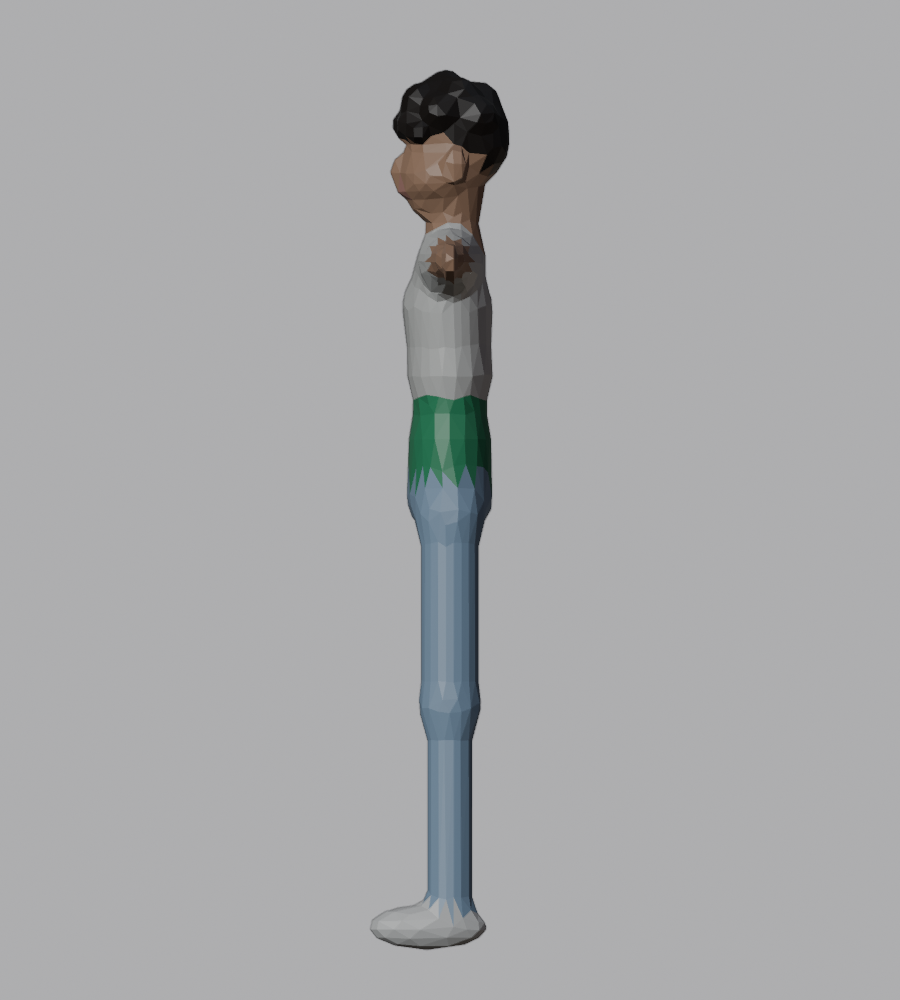
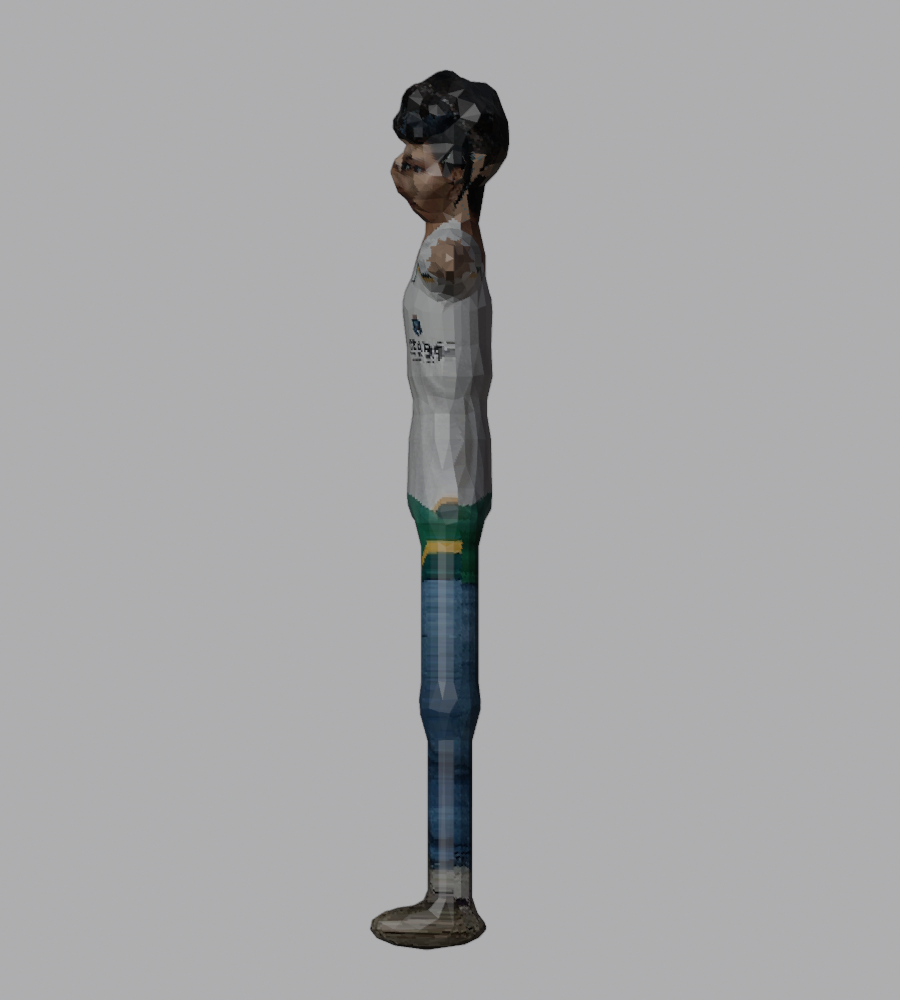
Textura 512 do boneco do Miguel projetada das fotos de referencia
UV automatico; cada texel e projetado na foto do lado para onde a face
aponta (frente, perfis, costas da cabeca, corpo inteiro), cor em 15 bits,
amostragem Closest. --sem-textura gera a versao so com cores.

Claude-Session: https://claude.ai/code/session_015xcccLS1wLAHGWNWcjbuqz

Changed region(s): [[0.4044, 0.31, 0.56, 0.961], [0.4356, 0.124, 0.56, 0.248], [0.4667, 0.279, 0.4978, 0.31]]

diff --git a/arte/gaviao_boneco_lowpoly.py b/arte/gaviao_boneco_lowpoly.py
@@ -204,8 +204,153 @@ def construir():
         c = pol.center
         pol.material_index = ordem.index(cor_do_ponto((c.x / k, c.y / k, c.z / k + min(zs))))
         pol.use_smooth = False
+    ob["k"], ob["z_min"] = k, min(zs)
     return ob
 
+
+
+# ---------------------------------------------------------------- textura
+# Textura 512x512 feita so com as fotos de referencia: cada texel da malha e
+# projetado (ortografico) na foto do lado para onde a face aponta.
+# Projecoes: foto -> (px0, sx, py0, sy, z0, eixo). px = px0 + sx * eixo,
+# py = py0 - sy * (z - z0); fotos normalizadas para 1500x2000.
+FOTOS = os.path.join(os.path.dirname(os.path.abspath(__file__)), "referencias", "miguel")
+TEX = 512
+PROJ = {
+    # eixo: funcao (x, y) -> coordenada horizontal em metros
+    "rosto_frente": (840, 4263, 1000, 5055, 1.531, lambda x, y: x),
+    "perfil_direito": (1010, 6200, 1000, 4835, 1.531, lambda x, y: -y - 0.117),
+    "perfil_esquerdo": (300, 6200, 1010, 4835, 1.531, lambda x, y: y + 0.117),
+    "cabeca_costas": (640, 5570, 1230, 4240, 1.470, lambda x, y: -x),
+    "corpo_frente": (750, 957, 1840, 957, 0.0, lambda x, y: x),
+}
+
+
+def _carregar(nome):
+    import numpy as np
+    img = bpy.data.images.load(os.path.join(FOTOS, nome + ".jpg"))
+    w, h = img.size
+    px = np.empty(w * h * 4, dtype=np.float32)
+    img.pixels.foreach_get(px)
+    bpy.data.images.remove(img)
+    return px.reshape(h, w, 4)[::-1, :, :3]  # linha 0 = topo
+
+
+def _amostra(fotos, nome, x, y, z):
+    px0, sx, py0, sy, z0, eixo = PROJ[nome]
+    im = fotos[nome]
+    h, w = im.shape[:2]
+    u = int(px0 + sx * eixo(x, y))
+    v = int(py0 - sy * (z - z0))
+    if 0 <= u < w and 0 <= v < h:
+        return im[v, u]
+    return None
+
+
+def texturizar(ob, k, z_min):
+    import numpy as np
+    me = ob.data
+    bpy.context.view_layer.objects.active = ob
+    bpy.ops.object.mode_set(mode="EDIT")
+    bpy.ops.mesh.select_all(action="SELECT")
+    bpy.ops.uv.smart_project(angle_limit=math.radians(66), island_margin=0.004)
+    bpy.ops.object.mode_set(mode="OBJECT")
+
+    fotos = {n: _carregar(n) for n in PROJ}
+    # pele dos bracos: media da bochecha na foto de frente
+    pele = fotos["rosto_frente"][1050:1150, 560:680].reshape(-1, 3).mean(0)
+    # amostra de cachos (foto de costas) para o topo e onde a foto mostra fundo
+    cachos = fotos["cabeca_costas"][250:950, 250:950]
+    tex = np.zeros((TEX, TEX, 3), dtype=np.float32)
+    feito = np.zeros((TEX, TEX), dtype=bool)
+    uv = me.uv_layers.active.data
+
+    for pol in me.polygons:
+        n = pol.normal
+        cen = pol.center
+        cor = cor_do_ponto((cen.x / k, cen.y / k, cen.z / k + z_min))
+        cabeca = cen.z > 1.46 and cor in ("pele", "cabelo", "labio")
+        if cabeca:
+            pesos = {"rosto_frente": -n.y, "cabeca_costas": n.y,
+                     "perfil_direito": -n.x, "perfil_esquerdo": n.x}
+            fonte = max(pesos, key=pesos.get)
+        elif abs(cen.x) < 0.22:
+            fonte = "corpo_frente"
+        else:
+            fonte = None
+        base = np.array(CORES[cor]) ** (1 / 2.2)
+        li = list(pol.loop_indices)
+        P = [me.vertices[me.loops[i].vertex_index].co for i in li]
+        T = [uv[i].uv for i in li]
+        for t in range(1, len(li) - 1):
+            tri = (0, t, t + 1)
+            a, b, c = (np.array(T[i]) * TEX for i in tri)
+            pa, pb, pc = (np.array(P[i]) for i in tri)
+            x0, y0 = np.floor(np.minimum(np.minimum(a, b), c)).astype(int) - 1
+            x1, y1 = np.ceil(np.maximum(np.maximum(a, b), c)).astype(int) + 1
+            den = (b[1] - c[1]) * (a[0] - c[0]) + (c[0] - b[0]) * (a[1] - c[1])
+            if abs(den) < 1e-12:
+                continue
+            for ty in range(max(y0, 0), min(y1, TEX)):
+                for tx in range(max(x0, 0), min(x1, TEX)):
+                    qx, qy = tx + 0.5, ty + 0.5
+                    l1 = ((b[1] - c[1]) * (qx - c[0]) + (c[0] - b[0]) * (qy - c[1])) / den
+                    l2 = ((c[1] - a[1]) * (qx - c[0]) + (a[0] - c[0]) * (qy - c[1])) / den
+                    l3 = 1 - l1 - l2
+                    if min(l1, l2, l3) < -0.02:
+                        continue
+                    q = l1 * pa + l2 * pb + l3 * pc
+                    col = None
+                    if fonte == "corpo_frente":
+                        # costas do corpo: mesma estampa espelhada
+                        xx = q[0] if n.y < 0.3 else -q[0]
+                        if q[2] < 0.86:  # pernas: fica dentro da perna da foto
+                            lado = 1 if xx > 0 else -1
+                            xx = lado * 0.09 + max(-0.035, min(0.035, xx - lado * 0.09))
+                        col = _amostra(fotos, fonte, max(-0.17, min(0.17, xx)), q[1], q[2])
+                    elif fonte:
+                        col = _amostra(fotos, fonte, q[0], q[1], q[2])
+                    if cor == "cabelo" and (col is None or col.mean() > 0.30
+                                            or q[2] > 1.74):
+                        ch, cw = cachos.shape[:2]
+                        col = cachos[int((q[1] + q[2]) * 3000) % ch,
+                                     int((q[0] + 0.5 * q[2]) * 3000) % cw]
+                    if cabeca and cor != "cabelo" and col is not None and col.min() > 0.55:
+                        col = None  # parede/gola atras do pescoco na foto
+                    if col is None:
+                        col = pele if cor == "pele" else base
+                    tex[ty, tx] = col
+                    feito[ty, tx] = True
+
+    # espalha a borda das ilhas para nao aparecer costura
+    for _ in range(4):
+        viz = np.zeros_like(tex)
+        cnt = np.zeros(feito.shape)
+        for dy, dx in ((1, 0), (-1, 0), (0, 1), (0, -1)):
+            m = np.roll(feito, (dy, dx), (0, 1))
+            viz += np.roll(tex, (dy, dx), (0, 1)) * m[..., None]
+            cnt += m
+        novo = ~feito & (cnt > 0)
+        tex[novo] = viz[novo] / cnt[novo][:, None]
+        feito |= novo
+
+    tex = np.round(tex * 31) / 31  # 15 bits de cor, como no PS1
+    img = bpy.data.images.new("miguel_textura", TEX, TEX)
+    rgba = np.concatenate([tex, np.ones((TEX, TEX, 1), np.float32)], 2)
+    img.pixels.foreach_set(rgba.ravel())
+    img.pack()
+
+    mat = bpy.data.materials.new("miguel")
+    mat.use_nodes = True
+    nt = mat.node_tree
+    no_tex = nt.nodes.new("ShaderNodeTexImage")
+    no_tex.image = img
+    no_tex.interpolation = "Closest"
+    bsdf = nt.nodes.get("Principled BSDF")
+    nt.links.new(no_tex.outputs["Color"], bsdf.inputs["Base Color"])
+    me.materials.clear()
+    me.materials.append(mat)
+    return img
 
 # ----------------------------------------------------------------- render
 def renderizar(pasta):
@@ -214,7 +359,7 @@ def renderizar(pasta):
     cena.render.engine = "BLENDER_WORKBENCH"
     sh = cena.display.shading
     sh.light = "STUDIO"
-    sh.color_type = "MATERIAL"
+    sh.color_type = "TEXTURE" if bpy.data.images.get("miguel_textura") else "MATERIAL"
     sh.show_object_outline = True
     sh.background_type = "VIEWPORT"
     sh.background_color = (0.55, 0.55, 0.57)
@@ -257,6 +402,12 @@ def main():
     zs = [v.co.z for v in me.vertices]
     print("Miguel: %d faces, %d tris, altura %.3f m" % (
         len(me.polygons), sum(len(p.vertices) - 2 for p in me.polygons), max(zs) - min(zs)))
+    if "--sem-textura" not in args:
+        img = texturizar(ob, ob["k"], ob["z_min"])
+        if "--textura" in args:
+            img.filepath_raw = os.path.abspath(args[args.index("--textura") + 1])
+            img.file_format = "PNG"
+            img.save()
     if "--render" in args:
         renderizar(os.path.abspath(args[args.index("--render") + 1]))
     if "--blend" in args:
